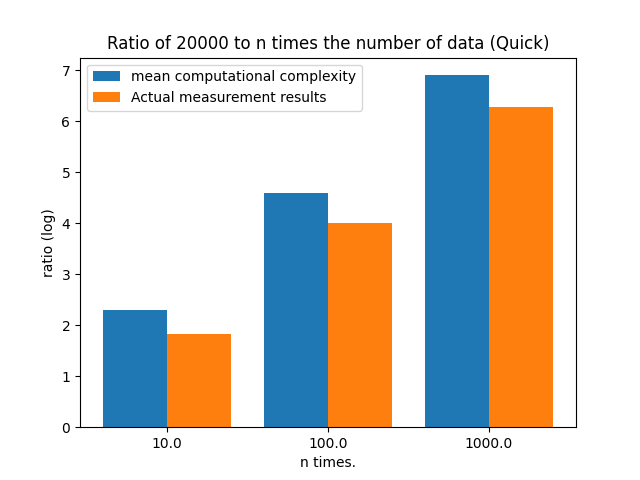
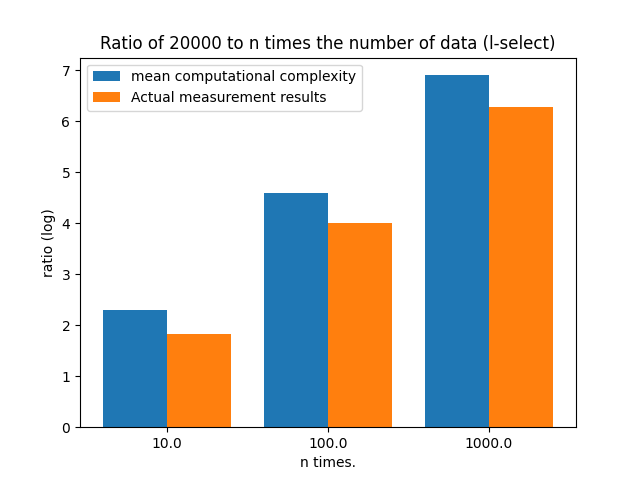
plot.pyを修正する

Changed region(s): [[0.1562, 0.0625, 0.875, 0.125]]

diff --git a/lecture4/kadai4-2/plot.py b/lecture4/kadai4-2/plot.py
@@ -105,7 +105,7 @@ for i, h in enumerate(data1):
     pos = x - totoal_width * (1 - (2 * i + 1) / len(data1)) / 2
     plt.bar(pos, np.log(h), width=totoal_width / len(data1))
 
-plt.title("Ratio of 20000 to n times the number of data (Shell)")
+plt.title("Ratio of 20000 to n times the number of data (select)")
 # ラベルの設定
 plt.xticks(x, ratio_n_values)
 plt.xlabel("n times.")
@@ -125,7 +125,7 @@ for i, h in enumerate(data2):
     pos = x - totoal_width * (1 - (2 * i + 1) / len(data2)) / 2
     plt.bar(pos, np.log(h), width=totoal_width / len(data2))
 
-plt.title("Ratio of 20000 to n times the number of data (Quick)")
+plt.title("Ratio of 20000 to n times the number of data (l-select)")
 # ラベルの設定
 plt.xticks(x, ratio_n_values)
 plt.xlabel("n times.")
